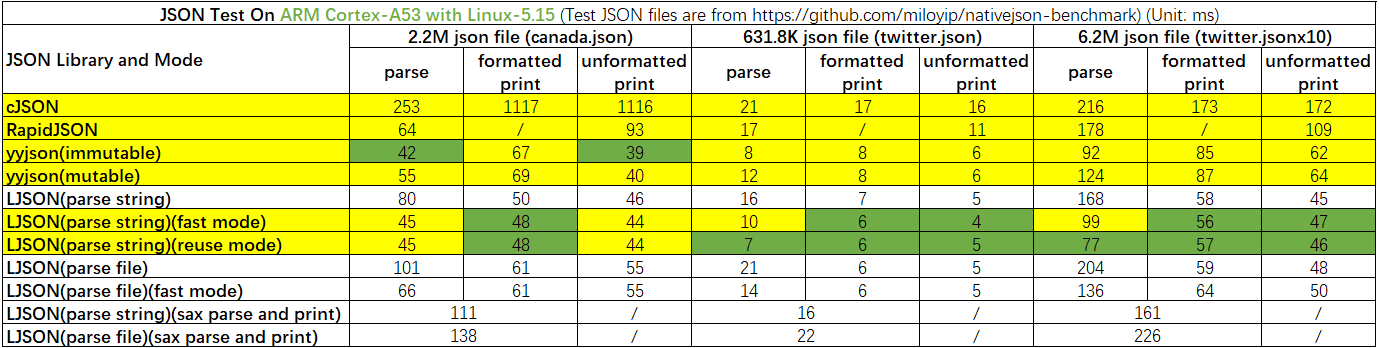
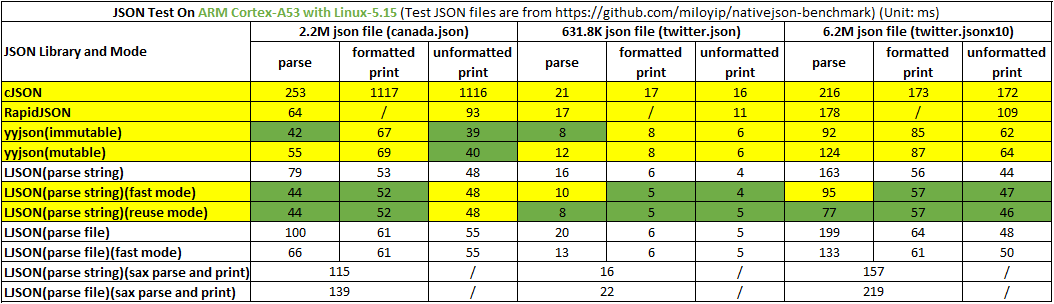
Optimize printing output of ldouble

Changed region(s): [[0.0, 0.0, 1.0, 1.0], [0.0, 0.148, 0.1518, 0.2072]]

diff --git a/json.c b/json.c
@@ -1746,11 +1746,9 @@ static inline uint64_t u128_calc(uint64_t x, uint64_t y)
 #endif
 
     val = hi * 1.8446744073709551616; /* 1<<64 = 18446744073709551616 */
-    ret = (uint64_t)val;
+    ret = (uint64_t)val + 1;
     if (lo >= div)
-        ++hi;
-    if (val - ret >= 0.49)
-        ++hi;
+        ++ret;
 
     return ret;
 }
@@ -1831,8 +1829,8 @@ def print_pow_array(unit, index, end, positive):
 def print_positive_array():
     # 1 * (2 ** 4) = 1.6 * (10 ** 1)
     # 16 = 1.6 * (10 ** 1)
-    # 242 = (1023 - 52) / 4
-    print_pow_array(16, 1, 242, True)
+    # 243 = (1023 - 52) / 4 + 1
+    print_pow_array(16, 1, 243, True)
 
 def print_negative_array():
     # 1 * (2 ** -4) = 0.625 * (10 ** -1)
@@ -1847,7 +1845,7 @@ print_negative_array()
 
 static inline diy_fp_t positive_diy_fp(int32_t e)
 {
-    static const uint64_t positive_base_lut[243] = {
+    static const uint64_t positive_base_lut[244] = {
         0x0de0b6b3a7640000, 0x16345785d8a00000, 0x2386f26fc1000000, 0x38d7ea4c68000000,
         0x5af3107a40000000, 0x0e8d4a5100000000, 0x174876e800000000, 0x2540be4000000000,
         0x3b9aca0000000000, 0x5f5e100000000000, 0x0f42400000000000, 0x186a000000000000,
@@ -1908,10 +1906,10 @@ static inline diy_fp_t positive_diy_fp(int32_t e)
         0x300c50c958de864f, 0x4ce0814227ca707e, 0x7b00ced03faa4d96, 0x13ae3591f5b4d937,
         0x1f7d228322baf525, 0x3261d0d1d12b21d4, 0x509c814fb511cfba, 0x80fa687f881c7f8f,
         0x14a2f1ffecd15c17, 0x2104b66647b56025, 0x34d4570a0c5566a1, 0x5486f1a9ad557102,
-        0x873e4f75e2224e69, 0x15a391d56bdc876d, 0x229f4fbbdfc73f15
+        0x873e4f75e2224e69, 0x15a391d56bdc876d, 0x229f4fbbdfc73f15, 0x37654c5fcc71fe88
     };
 
-    static const int8_t positive_index_lut[243] = {
+    static const int8_t positive_index_lut[244] = {
         18 , 18 , 18 , 18 , 18 , 17 , 17 , 17 , 17 , 17 , 16 , 16 , 16 , 16 , 16 , 15 , 15 , 15 , 15 , 15 ,
         14 , 14 , 14 , 14 , 14 , 13 , 13 , 13 , 13 , 13 , 12 , 12 , 12 , 12 , 12 , 11 , 11 , 11 , 11 , 11 ,
         10 , 10 , 10 , 10 , 10 , 9  , 9  , 9  , 9  , 8  , 8  , 8  , 8  , 8  , 7  , 7  , 7  , 7  , 7  , 6  ,
@@ -1924,7 +1922,7 @@ static inline diy_fp_t positive_diy_fp(int32_t e)
         -18, -18, -19, -19, -19, -19, -19, -20, -20, -20, -20, -20, -21, -21, -21, -21, -22, -22, -22, -22,
         -22, -23, -23, -23, -23, -23, -24, -24, -24, -24, -24, -25, -25, -25, -25, -25, -26, -26, -26, -26,
         -26, -27, -27, -27, -27, -27, -28, -28, -28, -28, -28, -29, -29, -29, -29, -29, -30, -30, -30, -30,
-        -30, -31, -31
+        -30, -31, -31, -31
     };
 
     const diy_fp_t v = { .f = positive_base_lut[e], .e = positive_index_lut[e] };
@@ -2037,7 +2035,10 @@ static inline void ldouble_convert(diy_fp_t *v)
 
     e >>= 2;
     t -= e << 2;
-    f <<= t;
+    if (t) {
+        ++e;
+        f >>= 4 - t;
+    }
     if (e >= 0) {
         x = positive_diy_fp(e);
     } else {

diff --git a/ldouble.c b/ldouble.c
@@ -52,11 +52,9 @@ static inline uint64_t u128_calc(uint64_t x, uint64_t y)
 #endif
 
     val = hi * 1.8446744073709551616; /* 1<<64 = 18446744073709551616 */
-    ret = (uint64_t)val;
+    ret = (uint64_t)val + 1;
     if (lo >= div)
-        ++hi;
-    if (val - ret >= 0.49)
-        ++hi;
+        ++ret;
 
     return ret;
 }
@@ -137,8 +135,8 @@ def print_pow_array(unit, index, end, positive):
 def print_positive_array():
     # 1 * (2 ** 4) = 1.6 * (10 ** 1)
     # 16 = 1.6 * (10 ** 1)
-    # 242 = (1023 - 52) / 4
-    print_pow_array(16, 1, 242, True)
+    # 243 = (1023 - 52) / 4 + 1
+    print_pow_array(16, 1, 243, True)
 
 def print_negative_array():
     # 1 * (2 ** -4) = 0.625 * (10 ** -1)
@@ -153,7 +151,7 @@ print_negative_array()
 
 static inline diy_fp_t positive_diy_fp(int32_t e)
 {
-    static const uint64_t positive_base_lut[243] = {
+    static const uint64_t positive_base_lut[244] = {
         0x0de0b6b3a7640000, 0x16345785d8a00000, 0x2386f26fc1000000, 0x38d7ea4c68000000,
         0x5af3107a40000000, 0x0e8d4a5100000000, 0x174876e800000000, 0x2540be4000000000,
         0x3b9aca0000000000, 0x5f5e100000000000, 0x0f42400000000000, 0x186a000000000000,
@@ -214,10 +212,10 @@ static inline diy_fp_t positive_diy_fp(int32_t e)
         0x300c50c958de864f, 0x4ce0814227ca707e, 0x7b00ced03faa4d96, 0x13ae3591f5b4d937,
         0x1f7d228322baf525, 0x3261d0d1d12b21d4, 0x509c814fb511cfba, 0x80fa687f881c7f8f,
         0x14a2f1ffecd15c17, 0x2104b66647b56025, 0x34d4570a0c5566a1, 0x5486f1a9ad557102,
-        0x873e4f75e2224e69, 0x15a391d56bdc876d, 0x229f4fbbdfc73f15
+        0x873e4f75e2224e69, 0x15a391d56bdc876d, 0x229f4fbbdfc73f15, 0x37654c5fcc71fe88
     };
 
-    static const int8_t positive_index_lut[243] = {
+    static const int8_t positive_index_lut[244] = {
         18 , 18 , 18 , 18 , 18 , 17 , 17 , 17 , 17 , 17 , 16 , 16 , 16 , 16 , 16 , 15 , 15 , 15 , 15 , 15 ,
         14 , 14 , 14 , 14 , 14 , 13 , 13 , 13 , 13 , 13 , 12 , 12 , 12 , 12 , 12 , 11 , 11 , 11 , 11 , 11 ,
         10 , 10 , 10 , 10 , 10 , 9  , 9  , 9  , 9  , 8  , 8  , 8  , 8  , 8  , 7  , 7  , 7  , 7  , 7  , 6  ,
@@ -230,7 +228,7 @@ static inline diy_fp_t positive_diy_fp(int32_t e)
         -18, -18, -19, -19, -19, -19, -19, -20, -20, -20, -20, -20, -21, -21, -21, -21, -22, -22, -22, -22,
         -22, -23, -23, -23, -23, -23, -24, -24, -24, -24, -24, -25, -25, -25, -25, -25, -26, -26, -26, -26,
         -26, -27, -27, -27, -27, -27, -28, -28, -28, -28, -28, -29, -29, -29, -29, -29, -30, -30, -30, -30,
-        -30, -31, -31
+        -30, -31, -31, -31
     };
 
     const diy_fp_t v = { .f = positive_base_lut[e], .e = positive_index_lut[e] };
@@ -343,7 +341,10 @@ static inline void ldouble_convert(diy_fp_t *v)
 
     e >>= 2;
     t -= e << 2;
-    f <<= t;
+    if (t) {
+        ++e;
+        f >>= 4 - t;
+    }
     if (e >= 0) {
         x = positive_diy_fp(e);
     } else {

diff --git a/ldouble_test.c b/ldouble_test.c
@@ -44,7 +44,8 @@ int main(int argc, char *argv[])
             ldouble_dtoa(d, buf);
         }
         ms3 = _system_ms_get();
-        printf("original: %s\nprintf  : %0.15g\t%ums\nldouble : %s\t%ums\n", argv[1], d, ms2 - ms1, buf, ms3 - ms2);
+        printf("original: %s\nprintf  : %0.15g\t%ums\nldouble : %s\t%ums\t%.0lf%%\n", argv[1], d,
+            ms2 - ms1, buf, ms3 - ms2, 100.0 * (ms2 - ms1) / (ms3 - ms2));
     }
 
     return 0;

diff --git a/README_zh-cn.md b/README_zh-cn.md
@@ -65,12 +65,12 @@ make O=<编译输出目录> CROSS_COMPILE=<交叉编译器前缀> && make O=<编
 注：主要是测试速度，`O2` 优化等级且默认选项编译，测试文件来自 [nativejson-benchmark](https://github.com/miloyip/nativejson-benchmark) 项目
 
 > 测试平台: Ambarella CV25M Board | CPU: ARM CortexA53 | OS: Linux-5.15<br>
-> 测试结果: LJSON 比cJSON 解析最快可达 462%，打印最快可达 2436%，LJSON 比 RapidJSON 解析最快可达 131%，打印最快可达 137%
+> 测试结果: LJSON 比cJSON 解析最快可达 475%，打印最快可达 2225%，LJSON 比 RapidJSON 解析最快可达 131%，打印最快可达 137%
 
 ![AARCH64-Linux测试结果](test_result/test_for_aarch64.png)
 
 > 测试平台: PC | CPU: Intel i7-10700 | OS: Ubuntu 18.04 (VirtualBox)<br>
-> 测试结果: :LJSON 比cJSON 解析最快可达 563%，打印最快可达 2554%，LJSON 比 RapidJSON 解析最快可达 75%，打印最快可达 124%
+> 测试结果: :LJSON 比cJSON 解析最快可达 560%，打印最快可达 2894%，LJSON 比 RapidJSON 解析最快可达 75%，打印最快可达 124%
 
 ![x86_64-Linux测试结果](test_result/test_for_x86_64.png)
 

diff --git a/README.md b/README.md
@@ -64,12 +64,12 @@ make O=<output path> CROSS_COMPILE=<tool prefix> && make O=<output path> DESTDIR
 Note: 'O2' optimization level and default option compilation, the test files come from the [nativejson-benchmark](https://github.com/miloyip/nativejson-benchmark) project
 
 > Test Platform: Ambarella CV25M Board | CPU: ARM CortexA53 | OS: Linux-5.15<br>
-> Test Result: LJSON parses 462% faster and prints 2436% faster than cJSON, LJSON parses 131% faster and prints 137% faster than RapidJSON
+> Test Result: LJSON parses 475% faster and prints 2225% faster than cJSON, LJSON parses 131% faster and prints 137% faster than RapidJSON
 
 ![AARCH64-Linux Test Result](test_result/test_for_aarch64.png)
 
 > Test Platform: PC | CPU: Intel i7-10700 | OS: Ubuntu 18.04 (VirtualBox)<br>
-> Test Result: LJSON parses 563% faster and prints 2554% faster than cJSON, LJSON parses 75% faster and prints 124% faster than RapidJSON
+> Test Result: LJSON parses 560% faster and prints 2894% faster than cJSON, LJSON parses 75% faster and prints 124% faster than RapidJSON
 
 ![x86_64-Linux Test Result](test_result/test_for_x86_64.png)
 
